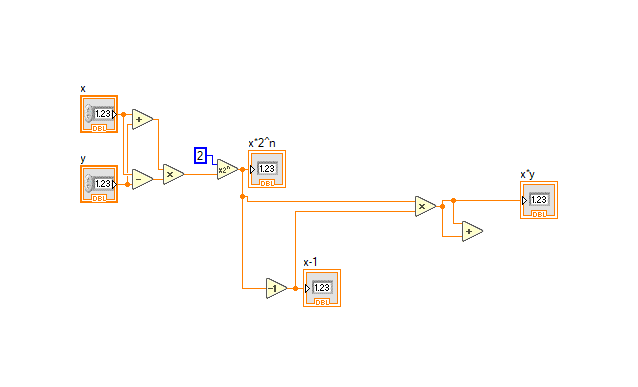
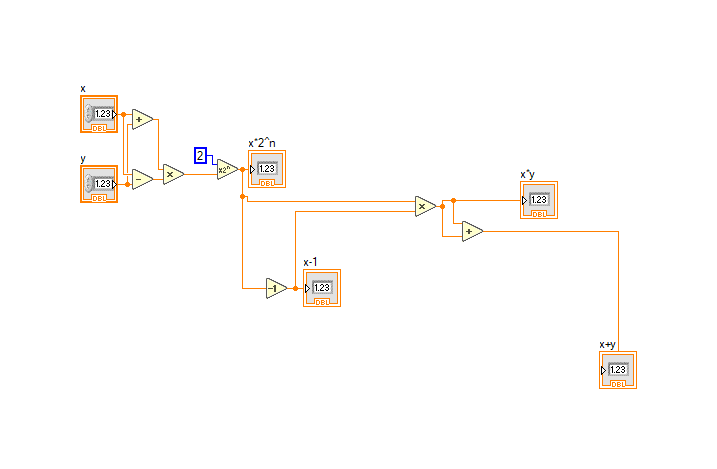
deploy: 5c4fd566c059bf756332151efe8157156752e32e

Changed region(s): [[0.0893, 0.186, 0.8934, 0.8372], [0.7147, 0.5581, 0.7743, 0.6202], [0.6254, 0.4031, 0.6552, 0.4341]]

diff --git a/vidiff/pr-49/windows/ArthOps (Modified).html b/vidiff/pr-49/windows/ArthOps (Modified).html
@@ -4,7 +4,7 @@
 <body>
 <div class="report">
 <h1 class="report-title">LabVIEW VI Comparison Report</h1>
-<p class="generation-time">4/28/2026 10:23:27 PM</p>
+<p class="generation-time">4/28/2026 10:24:54 PM</p>
 <div class="compared-VIs">
 <details><summary class="difference-heading"><div class="dropdown-left">First VI: C:\workspace-base\examples\cicd-examples\Test-VIs\ArthOps.vi</div><div class="dropdown-right">Second VI: C:\workspace\examples\cicd-examples\Test-VIs\ArthOps.vi</div></summary>
 <table class="difference"><tr class="compared-vi-image-captions"><td class="compared-vi-image-caption">Front Panel Overview</td></tr>
@@ -41,12 +41,27 @@
 </td></tr></table>
 <ol class="detailed-description-list" type="A">
 <li class="diff-detail">Add  - added at (485,260)</li>
+<li class="diff-detail">Front Panel Terminal "x+y" - added at (622,390)</li>
 <li class="diff-detail">wiring changes</li>
 </ol>
 </details>
 <details open>
 
-<summary class="difference-heading">2. VI Attribute - Miscellaneous</summary>
+<summary class="difference-heading">2. Front Panel objects</summary>
+<table class="difference"><tr class="compared-vi-image-captions"><td class="compared-vi-image-caption">C:\workspace-base\examples\cicd-examples\Test-VIs\ArthOps.vi</td><td class="difference-divider"></td><td class="compared-vi-image-caption">C:\workspace\examples\cicd-examples\Test-VIs\ArthOps.vi</td></tr><tr class="compared-images"><td class="diff-image">
+
+<img class="difference-image" src="ArthOps (Modified)_files/1_0_0_176_1.png" alt="ArthOps (Modified)_files/1_0_0_176_1.png">
+</td><td class="difference-divider"></td><td class="diff-image">
+
+<img class="difference-image" src="ArthOps (Modified)_files/1_0_0_176_2.png" alt="ArthOps (Modified)_files/1_0_0_176_2.png">
+</td></tr></table>
+<ol class="detailed-description-list" type="A">
+<li class="diff-detail">Numeric "x+y" - added at (462,59)</li>
+</ol>
+</details>
+<details open>
+
+<summary class="difference-heading">3. VI Attribute - Miscellaneous</summary>
 <ol class="detailed-description-list" type="A">
 <li class="diff-detail">	VI Version : changed from "25.0" to "26.0"</li>
 </ol>
